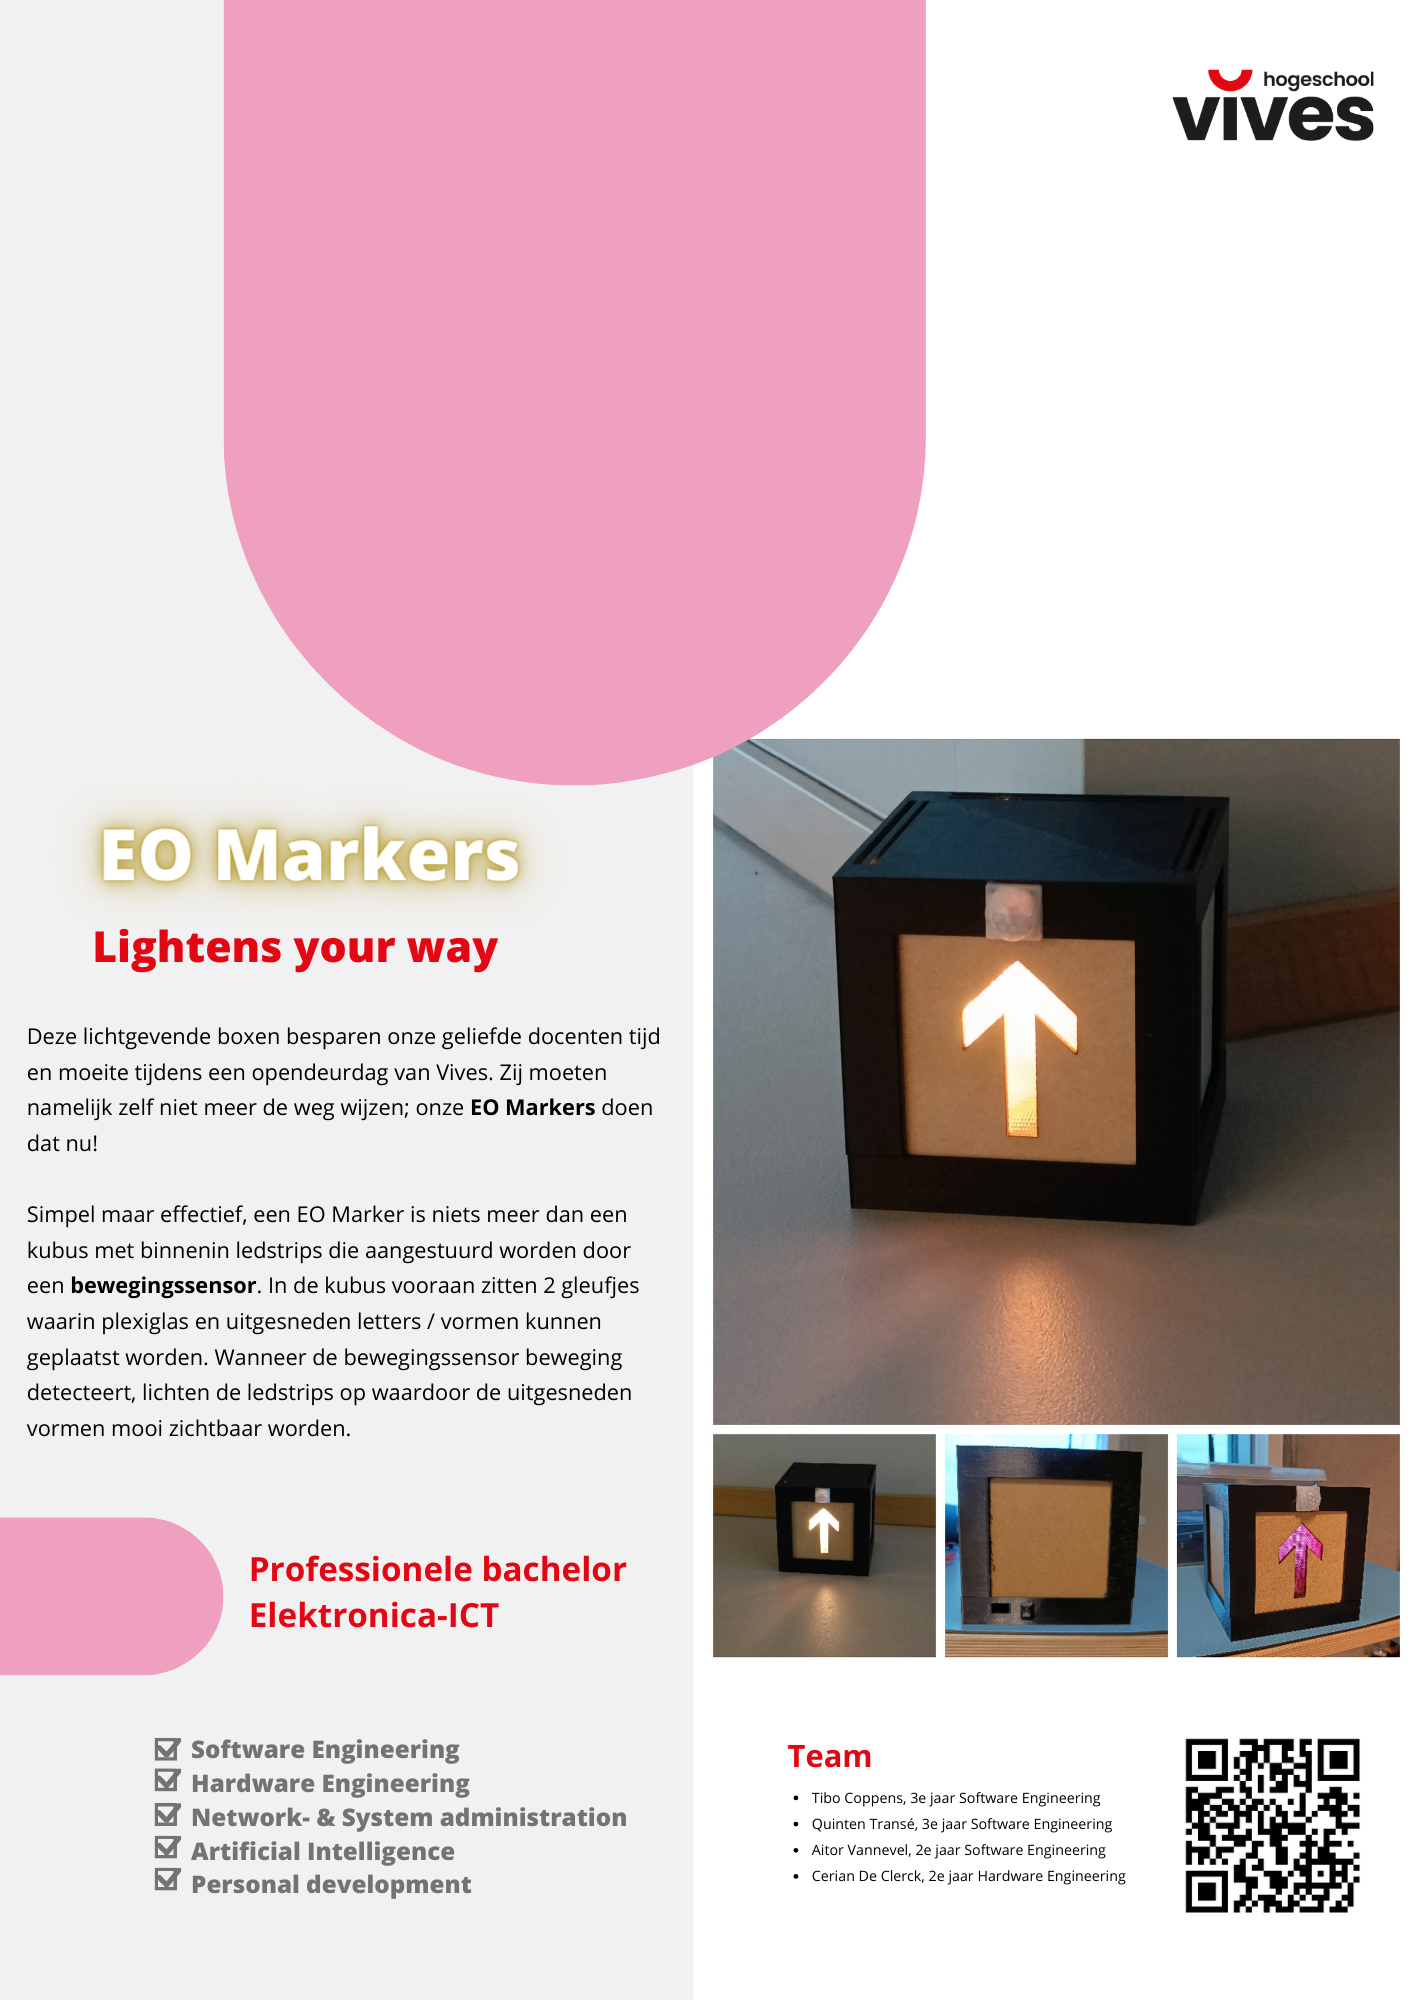
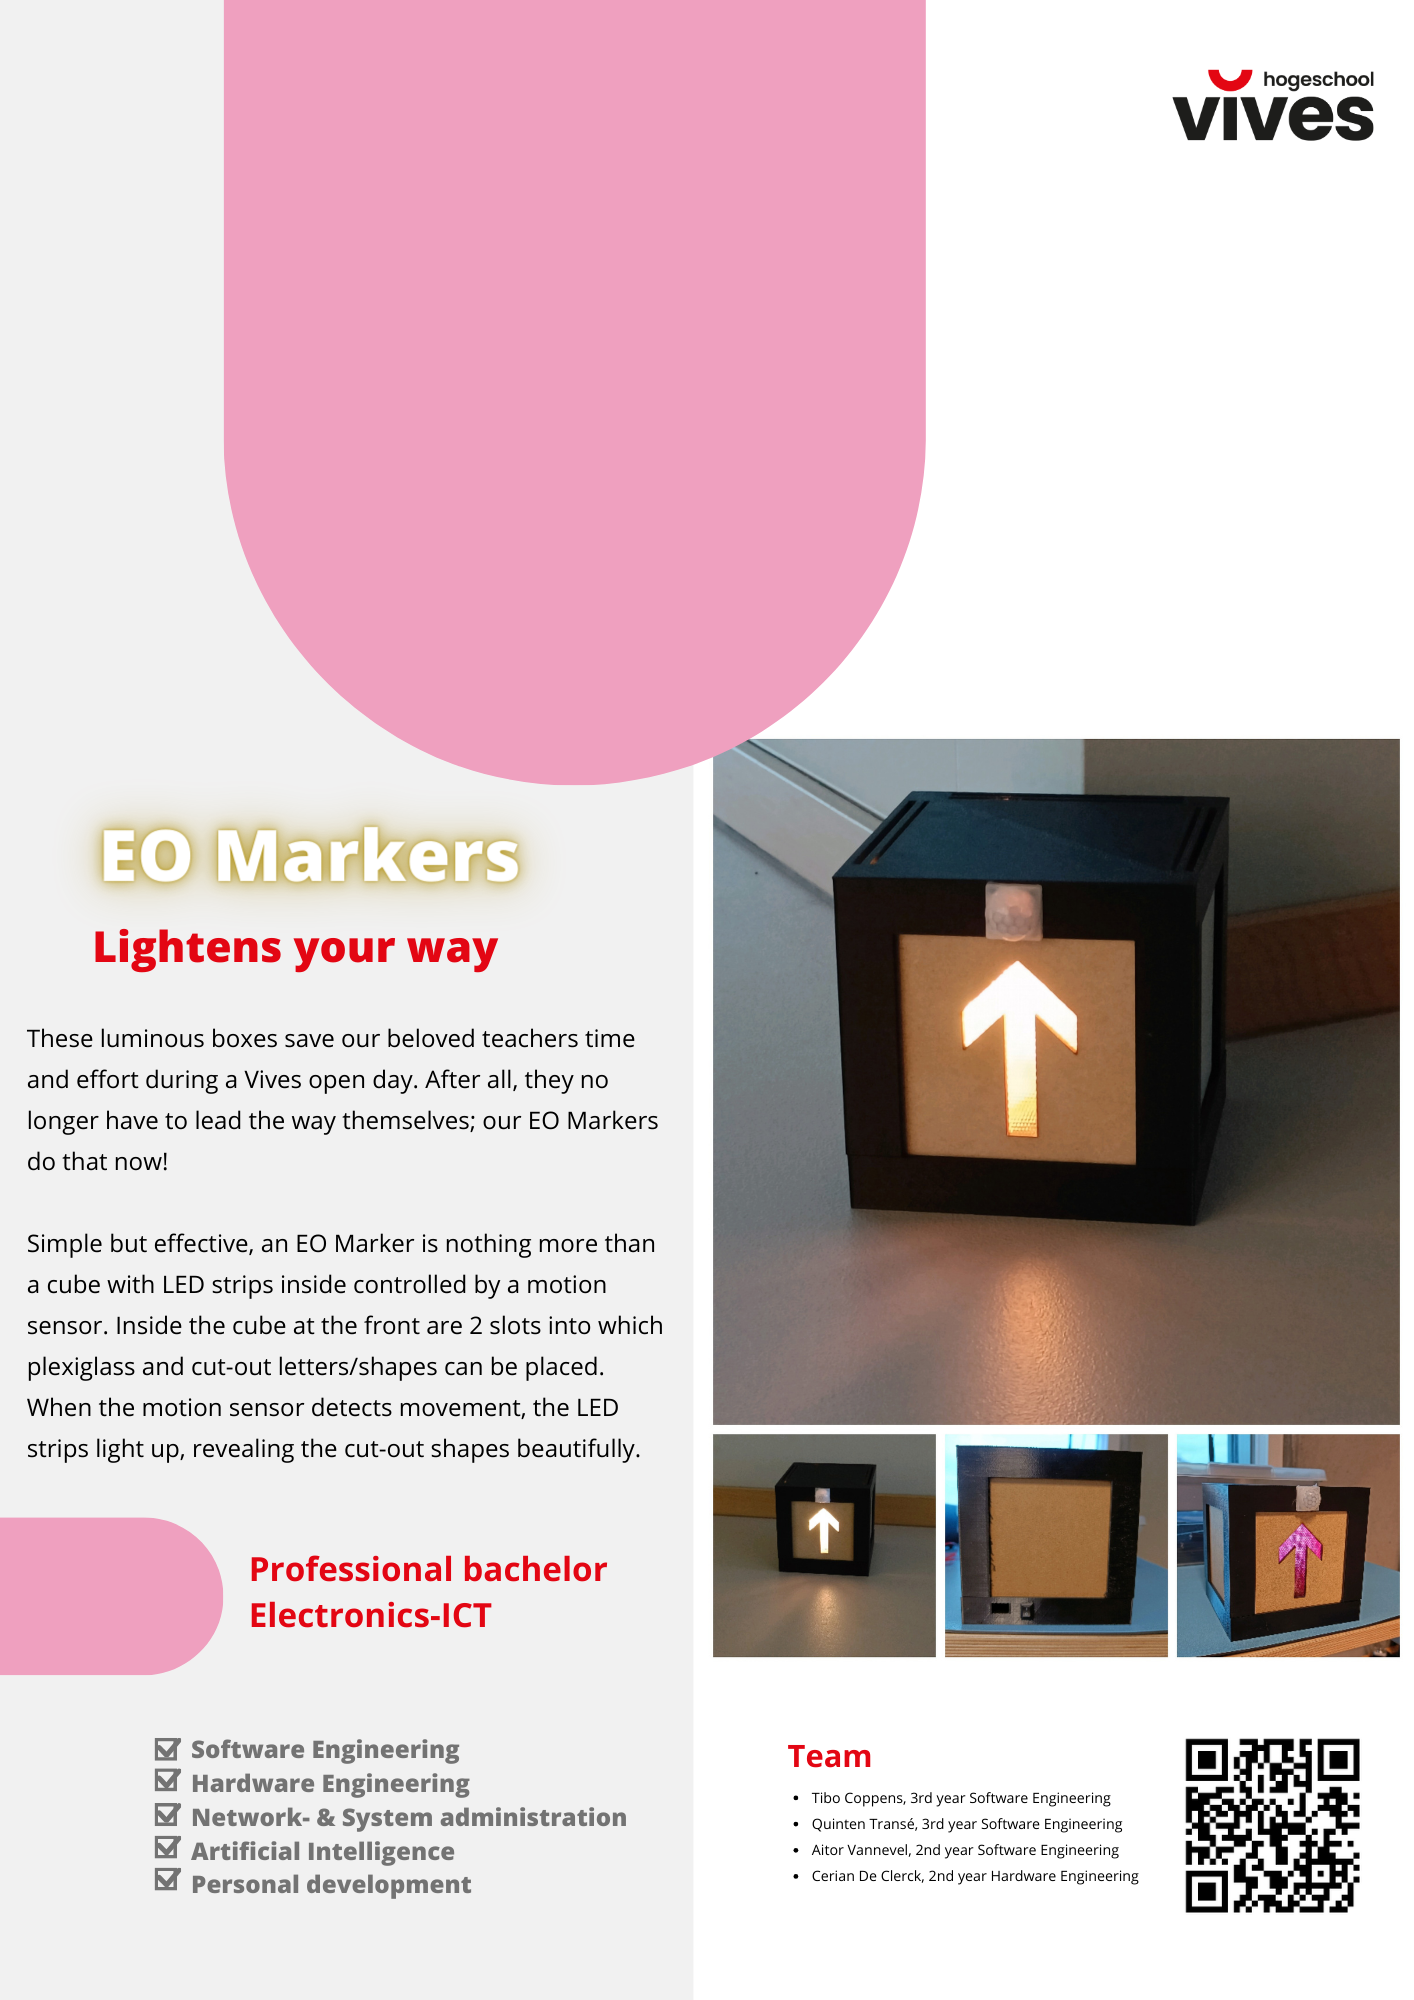
readme and images

Changed region(s): [[0.0, 0.496, 0.4668, 0.744], [0.6535, 0.899, 0.8091, 0.961], [0.2178, 0.775, 0.4356, 0.837]]

diff --git a/readme.md b/readme.md
@@ -4,7 +4,7 @@
 > The boxes can be fitted with a plexi with Electronics-ICT and a
 > direction indication via an arrow.
 
-# layout github repo
+# Layout Github Repo
 
 ```bash
 .
@@ -26,6 +26,8 @@
 ├── img
 │   ├── qr.png
 │   └── project_canvas.png
+│   └── potentiometers.jpg
+│   └── schakelaar.jpg
 ├── PCB
 │   ├── PCB
 |   ├── PCB_ESP32-C3-DevKitM-1
@@ -38,8 +40,9 @@
 
 - [Planning](#planning)
 - [Canvas](#canvas)
-- [3D Tekening](#3d-drawing)
 - [Affiche](#affiche)
+- [How to use](#how-to-use)
+- [3D Tekening](#3d-drawing)
 - [Android Studio](#android-studio)
 - [Arduino](#arduino)
 - [PCB](#pcb)
@@ -56,21 +59,38 @@
 
 ![Canvas](./img/project_canvas.png "Canvas")
 
+# Affiche
+
+![Affiche](./Affiche/EO%20Markers%20Affiche.png "Affiche")
+
+# How to use
+
+1. It is important that the batteries are fully charged, as they are rechargeable. A USB-C port is provided as an alternative power supply.
+2. Turn the switch on.
+
+![schakelaar](./img/schakelaar.jpg "schakelaar")
+
+3. Wait about 10 seconds. The LED strips will then light up whenever the sensor, attached to the front of the marker, detects movement.
+4. You can change the distance at which the sensor detects movement and the duration of lighting by turning the potentiometers as shown in the image.
+
+![potentiometers](./img/potentiometers.jpg "potentiometers")
+
+5. Each time the light goes out, there is a period of 2.5 seconds before the sensor can detect movement again.
+6. After using the EO marker, switch it off and charge the batteries.
+
 # 3D drawing 
 
 more info: [3D Tekening](./3d%20tekening/readme.md)
 
-Dit is de basis van de kubus. De sensor wordt in het klein rond gaatje geplaatst, de ledstrips kleven op de binnenkant van de palen en de kabels worden weggestoken via het middelste gedeelte. Op dit gedeelte is een reflecterende folie aangebracht. Een diffuser (plexiglas) wordt in de verste gleuf geschoven en een triplex muurtje met of zonder de wegwijzing wordt aangebracht in de dichstbijzijnde gleuf.
+This is the base of the cube. The sensor is placed in the small round hole, the LED strips stick to the inside of the posts and the cables are inserted through the middle part. A reflective film has been applied to this area, which helps to spread the light around. A diffuser (plexiglass) is slid into the furthest slot and a plywood wall, with or without directions, is placed in the nearest slot.
 
 ![Top](./3d%20tekening/img/3D_Main1.png "top")![Top](./3d%20tekening/img/3D_Main2.png "top")
 
-Dit is de onderkant van de kubus. Hier komt de pcb, batterijhouder en kabels terecht. Er is een gat voor een USB kabel als secondaire stroom. Deze 2 prints worden tesamen geschroefd met een M3-schroef of bout.
+This is the bottom of the cube. This is where the PCB, battery holder and cables end up. A hole is provided for a USB cable as secondary power. These 2 prints are screwed together with an M3 screw or bolt.
 
 ![Bottom](./3d%20tekening/img/3D_Bottom.png "bottom")
 
-# Affiche
 
-![Affiche](./Affiche/EO%20Markers%20Affiche.png "Affiche")
 
 # Android Studio
 
@@ -86,12 +106,31 @@ more info: [PCB](./PCB/README.md)
 
 ## PCB print
 
-De PCB bestaat uit een paar connectoren voor de ESP, LED-strip, sensor en USB-C poort. Dit zijn female headers, zodat deze er perfect in passen. De connectoren zijn intern verbonden op de PCB. 
+The PCB consists of a pair of connectors for the ESP, LED strip, sensor and USB-C port. These are female headers, so they fit in perfectly. The connectors are internally connected on the PCB. 
 
 ![PCB](./PCB/PCB_ESP32-C3-DevKitC-02/PCB.png "PCB")
 
 ## PCB schematic
 
-De schakeling bestaat uit 1 ESP, gevoed door een USB-kabel of een 5V batterij-pack parallel geschakeld op de j1 connector met een diode van battarij-pack naar connector (4 oplaadbare aa-batterijen). 3 female headers voor de ledstrips, 3 female headers voor de sensor, 8 female headers voor de USB-C poort en een diode voor stroom naar de batterijen tegen te houden.
+The circuit consists of 1 ESP, powered by a USB cable or a 5V battery pack connected in parallel on the j1 connector with a diode from battery pack to connector (4 rechargeable AA batteries). 3 female headers for the LED strips, 3 female headers for the sensor, 8 female headers for the USB-C port and a diode to stop current to the batteries.
+
+Measurements:
+U LED-strips (off): 4,1V;
+U LED-strips (on): 3,1V
+
+U Batteries (leds off): 4.9V;
+U Batteries (leds on): 4.3V
+
+U Diode (leds off): 0.72V;
+U Diode (leds on): 0.86V
+
+U Sensor (leds off): 2.98V;
+U Sensor (leds on): 2.55V
+
+U ESP (leds off): 4.1V;
+U ESP (leds on): 3.45V
+
+
+
 
 ![Schakeling](./PCB/PCB_ESP32-C3-DevKitC-02/sch.png "Schakeling")

diff --git a/3d tekening/readme.md b/3d tekening/readme.md
@@ -11,25 +11,25 @@
 
 # Top
 
-Dit is het hoofd gedeelte van de kubus. De sensor gaat in het gaatje vooraan met de kabels hiervan die door de cilinder gaan. Een reflecterende folie wordt aangebracht op deze cilinder. De ledstrips bevinden zich aan de schuine kant van de pillaren. Een difuser (plexiglas) wordt aangebracht in de verste gleuf en een triplex muurtje met of zonder de wegwijzing wordt aangebracht in de dichstbijzijnde gleuf.
+This is the main part of the cube. The sensor goes into the hole at the front with its cables going through the cylinder. A reflective foil is applied to this cylinder. The LED strips are located on the sloping side of the pillars. A diffuser (plexiglass) is placed in the furthest slot and a plywood wall, with or without directions, is placed in the nearest slot.
 
 ![Top](./img/3D_Main1.png "top")![Top](./img/3D_Main2.png "top")
 
 # Bottom
 
-Dit is de onderkant van de kubus. Hier komen de pcb en batterijhouder terecht. Deze worden vastgelijmd met hete lijm. Er is een gat voor een USB kabel als secondaire stroom en een gat voor de schakelaar. Deze 2 prints worden samen geschroefd met een M3 schroef of bout. De pcb wordt op de pins geschoven met de USB-C connector op het verhoogje. Links van de schakelaar, tegen de muur, wordt de batterijhouder vastgelijmd met een margin tussen de 2 muren, zodat deze kan opengemaakt worden.
+This is the bottom of the cube. This is where the PCB and battery holder end up. These are glued in place with hot glue. There is a hole for a USB cable that functions as a secondary power and a hole for the switch. These 2 prints are screwed together with an M3 screw or bolt. The PCB is slid onto the pins with the USB-C connector on the platform. To the left of the switch, against the wall, the battery holder is glued with a margin between the 2 walls, so that it can be opened.
 
 ![Bottom](./img/3D_Bottom.png "bottom")
 
 # Wall
 
-Dit is het muurtje die licht blokkeert of doorlaat d.m.v. een pijl. Deze wordt gelasercut uit een 3mm triplex. Hierop aan de binnenkant wordt ook nog een reflecterende folie aangebracht, zodat het licht alleen maar door de pijl kan ontsnappen.
+This is the wall that blocks or allows light to pass through an arrow. This is laser cut from 3mm plywood. A reflective foil is also applied to this on the inside, so that the light can only escape through the arrow.
 
 ![Wall](./img/3D_Wall.png "wall")
 
 # Afmetingen (metric)
 
-De kubus gemonteerd is 150x150x150 mm groot. De muurtjes hebben een grootte van 109x109x3 mm, waarvan 100x100 mm zichtbaar is.
+The cube assembled is 150x150x150 mm in size. The walls have a size of 109x109x3 mm, of which 100x100 mm is visible.
 
 # Recommended print settings
 
